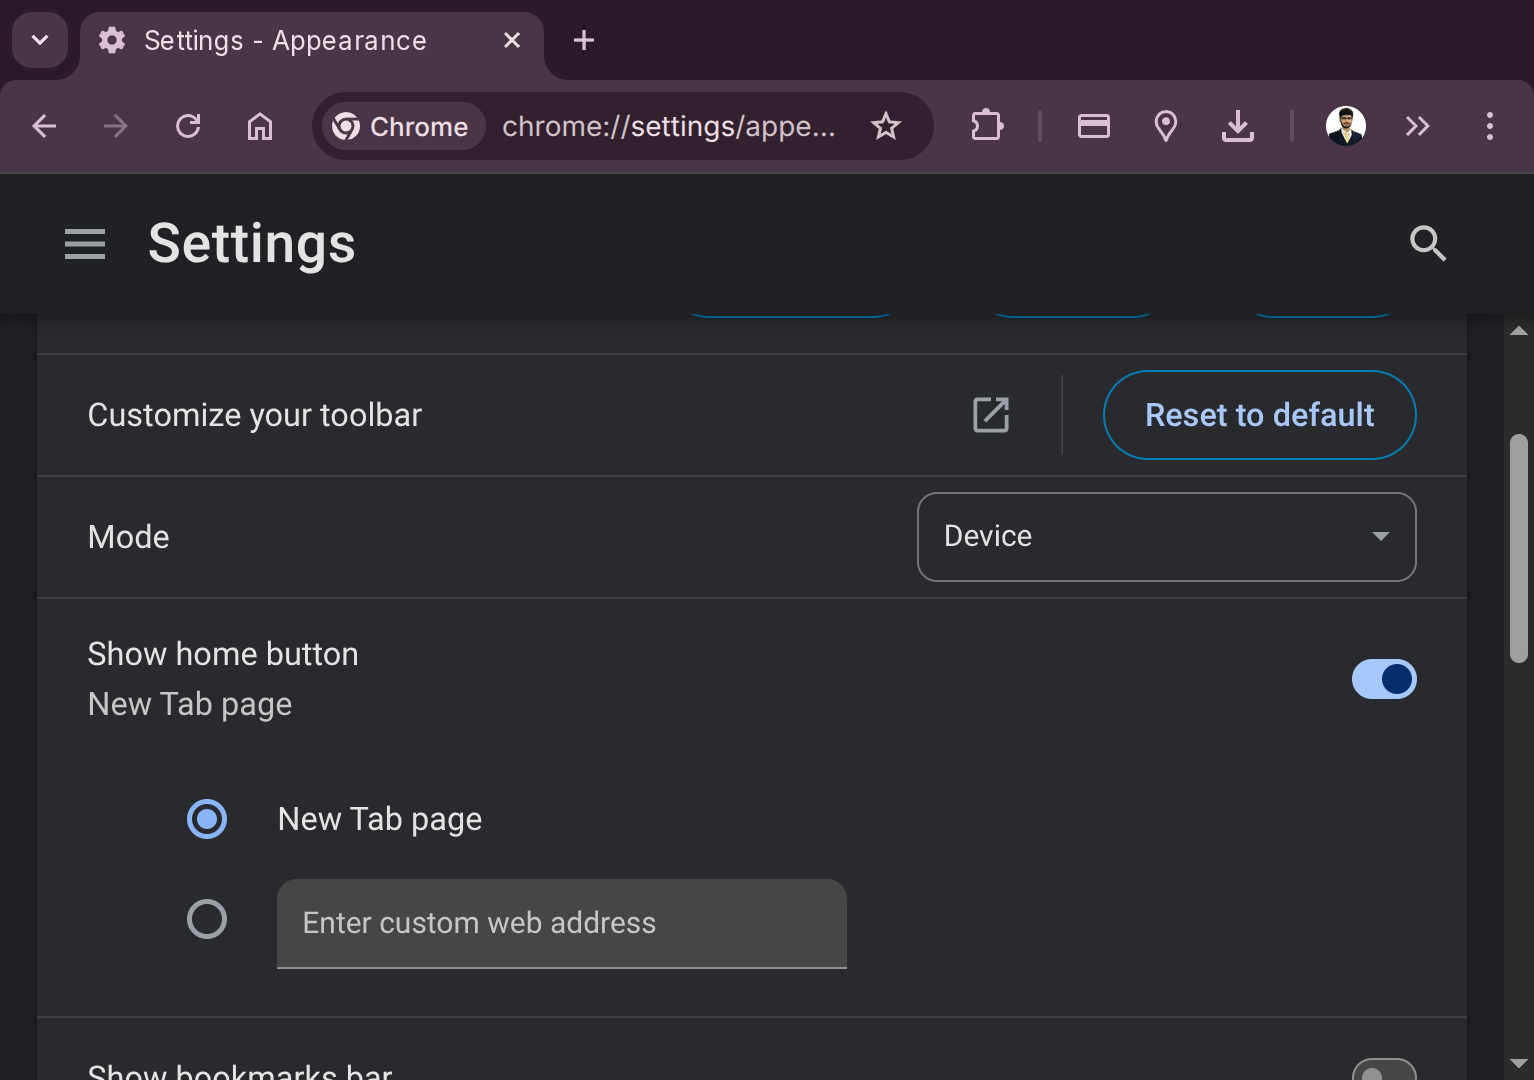
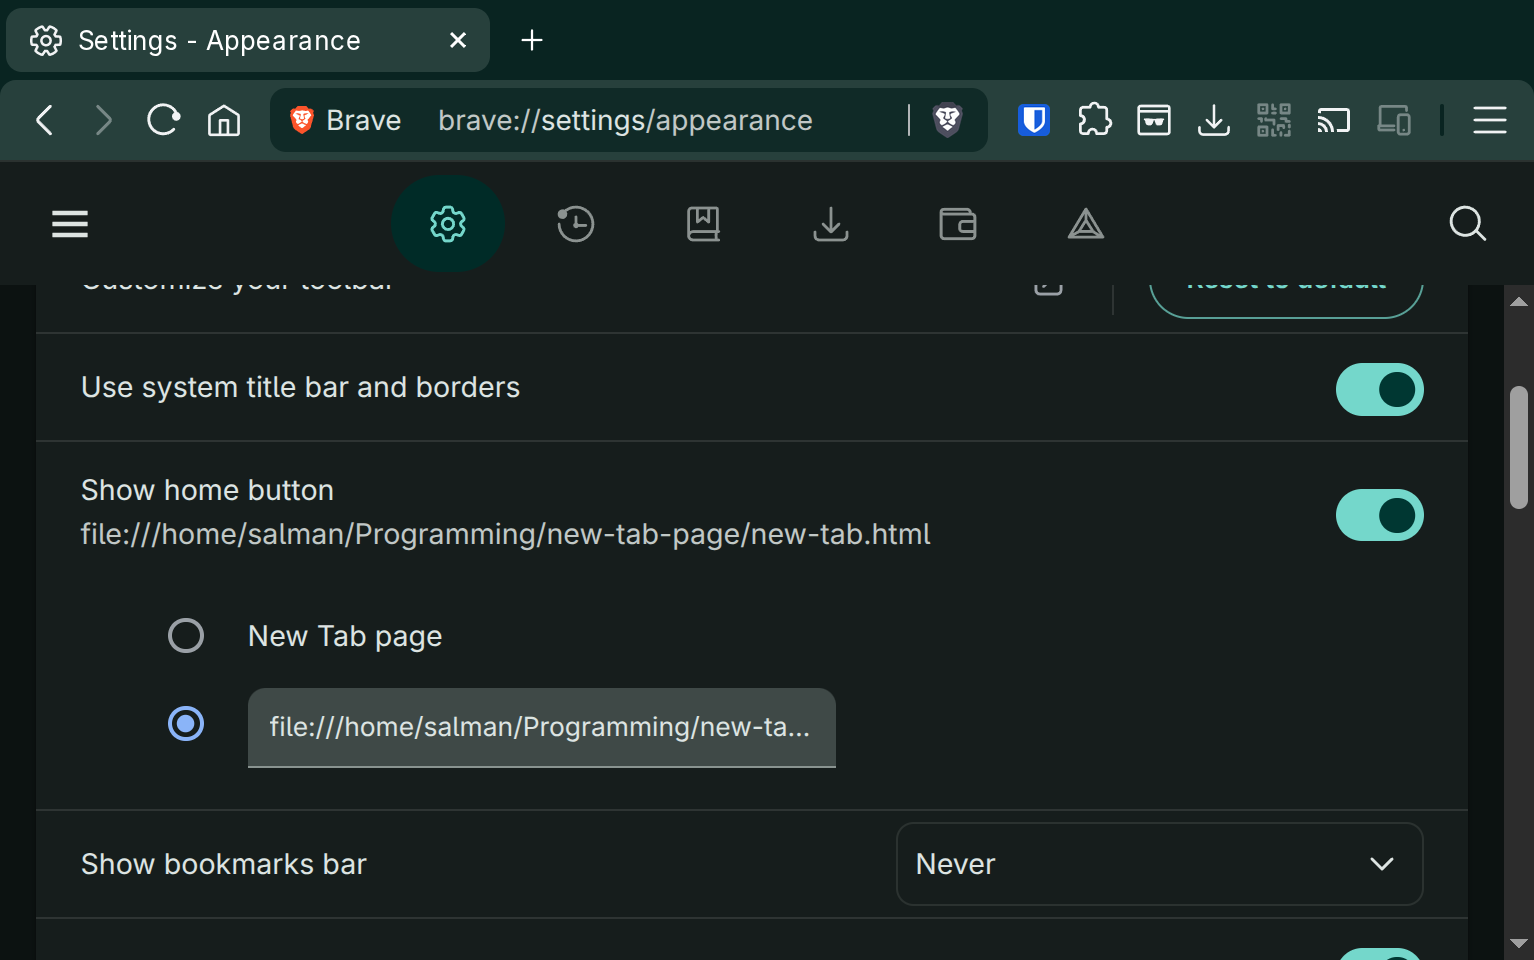
use brave

diff --git a/README.md b/README.md
@@ -6,10 +6,10 @@ Save `new-tab.html` somewhere locally on your computer and edit it as needed. Th
 file:///home/salman/Programming/new-tab-page/new-tab.html
 ```
 
-On Chrome it can be done at `chrome://settings/appearance`:
-<img src="image.png" width="500px" alt="screenshot of google chrome settings page showing how to change the new tab page url"/>
+On Brave it can be done at `brave://settings/appearance`:
+<img src="image.png" width="500px" alt="screenshot of the brave browser settings page showing how to change the new tab page url"/>
 
-You might additionally need to use something like the [Custom New Tab URL](https://chromewebstore.google.com/detail/custom-new-tab-url/mmjbdbjnoablegbkcklggeknkfcjkjia?hl=en&pli=1) extension.
+You might need to use something like the [Custom New Tab URL](https://chromewebstore.google.com/detail/custom-new-tab-url/mmjbdbjnoablegbkcklggeknkfcjkjia?hl=en&pli=1) extension on Chrome.
 
 Tips:
 - Use `Control`+`=` and `Control`+`-` shortcuts in the browser to quickly change zoom levels instead of changing all the size values in code.
